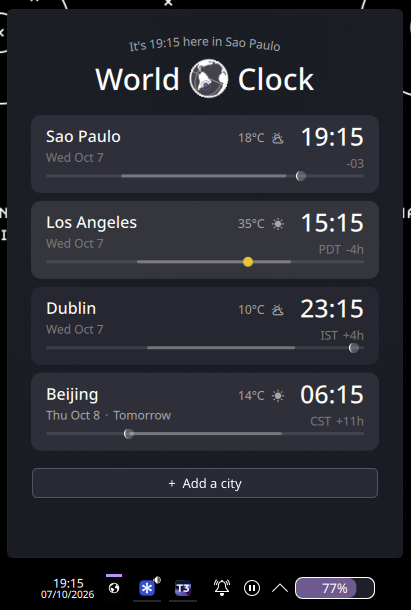
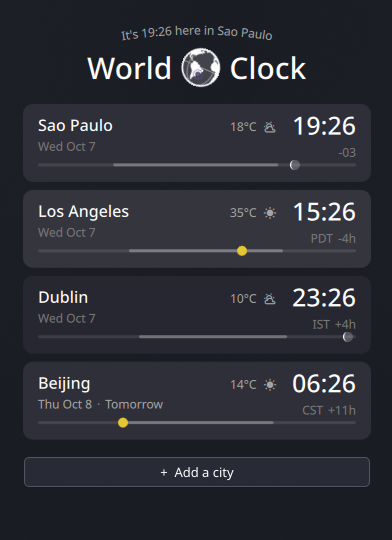
Use supplied KDE screenshots with PNG metadata stripped

Changed region(s): [[0.0612, 0.2074, 0.949, 0.8296], [0.0, 0.0, 1.0, 1.0], [0.0918, 0.2074, 0.3061, 0.2963]]

diff --git a/README.md b/README.md
@@ -14,7 +14,8 @@ Tested on CachyOS with Plasma 6.7.5 and Qt 6.11.2, including use in a panel
 and in a standalone window.
 
 <p>
-  <img src="docs/clocks.png" width="411" alt="Elsewhen running in a KDE panel with a dark theme, city clocks, weather, and daylight strips">
+  <img src="docs/clocks.png" width="392" alt="Elsewhen with a dark KDE theme, city clocks, weather, and daylight strips">
+  <img src="docs/globe.png" width="387" alt="Elsewhen interactive globe with a dark KDE theme">
 </p>
 
 ## Use
